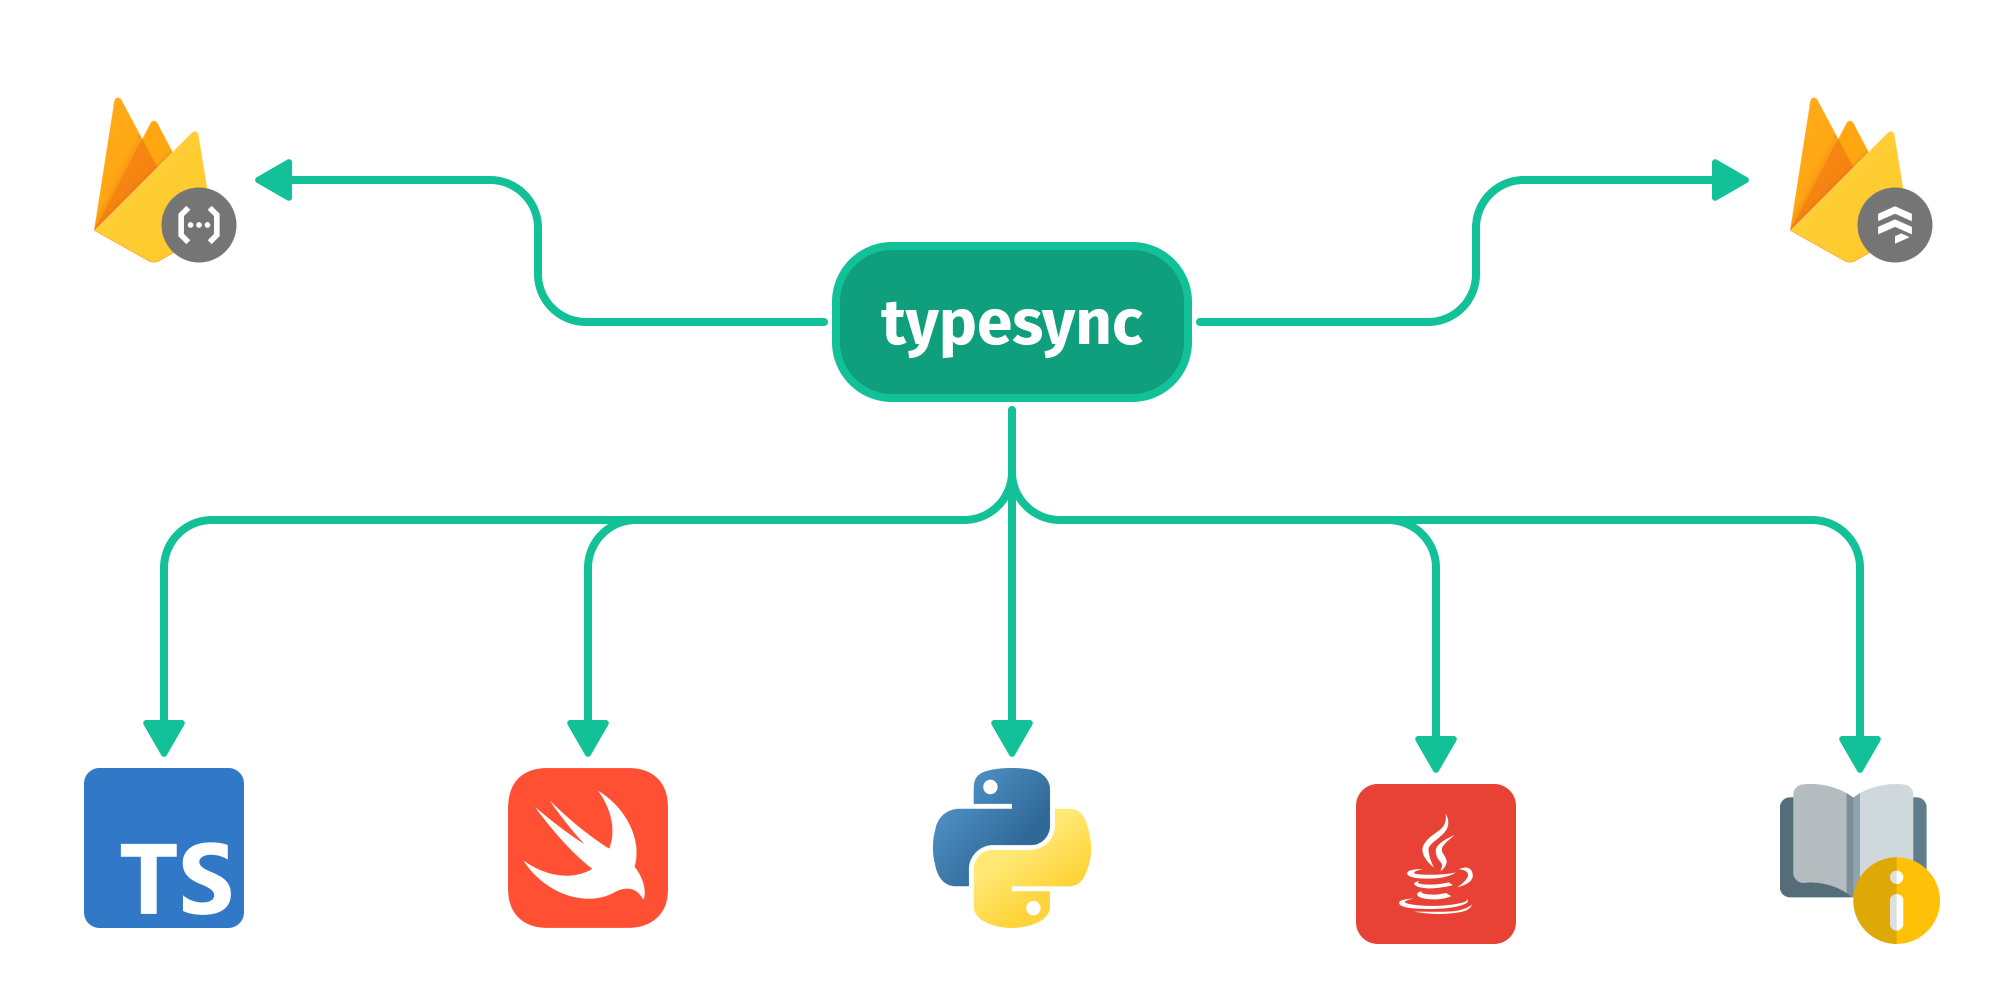
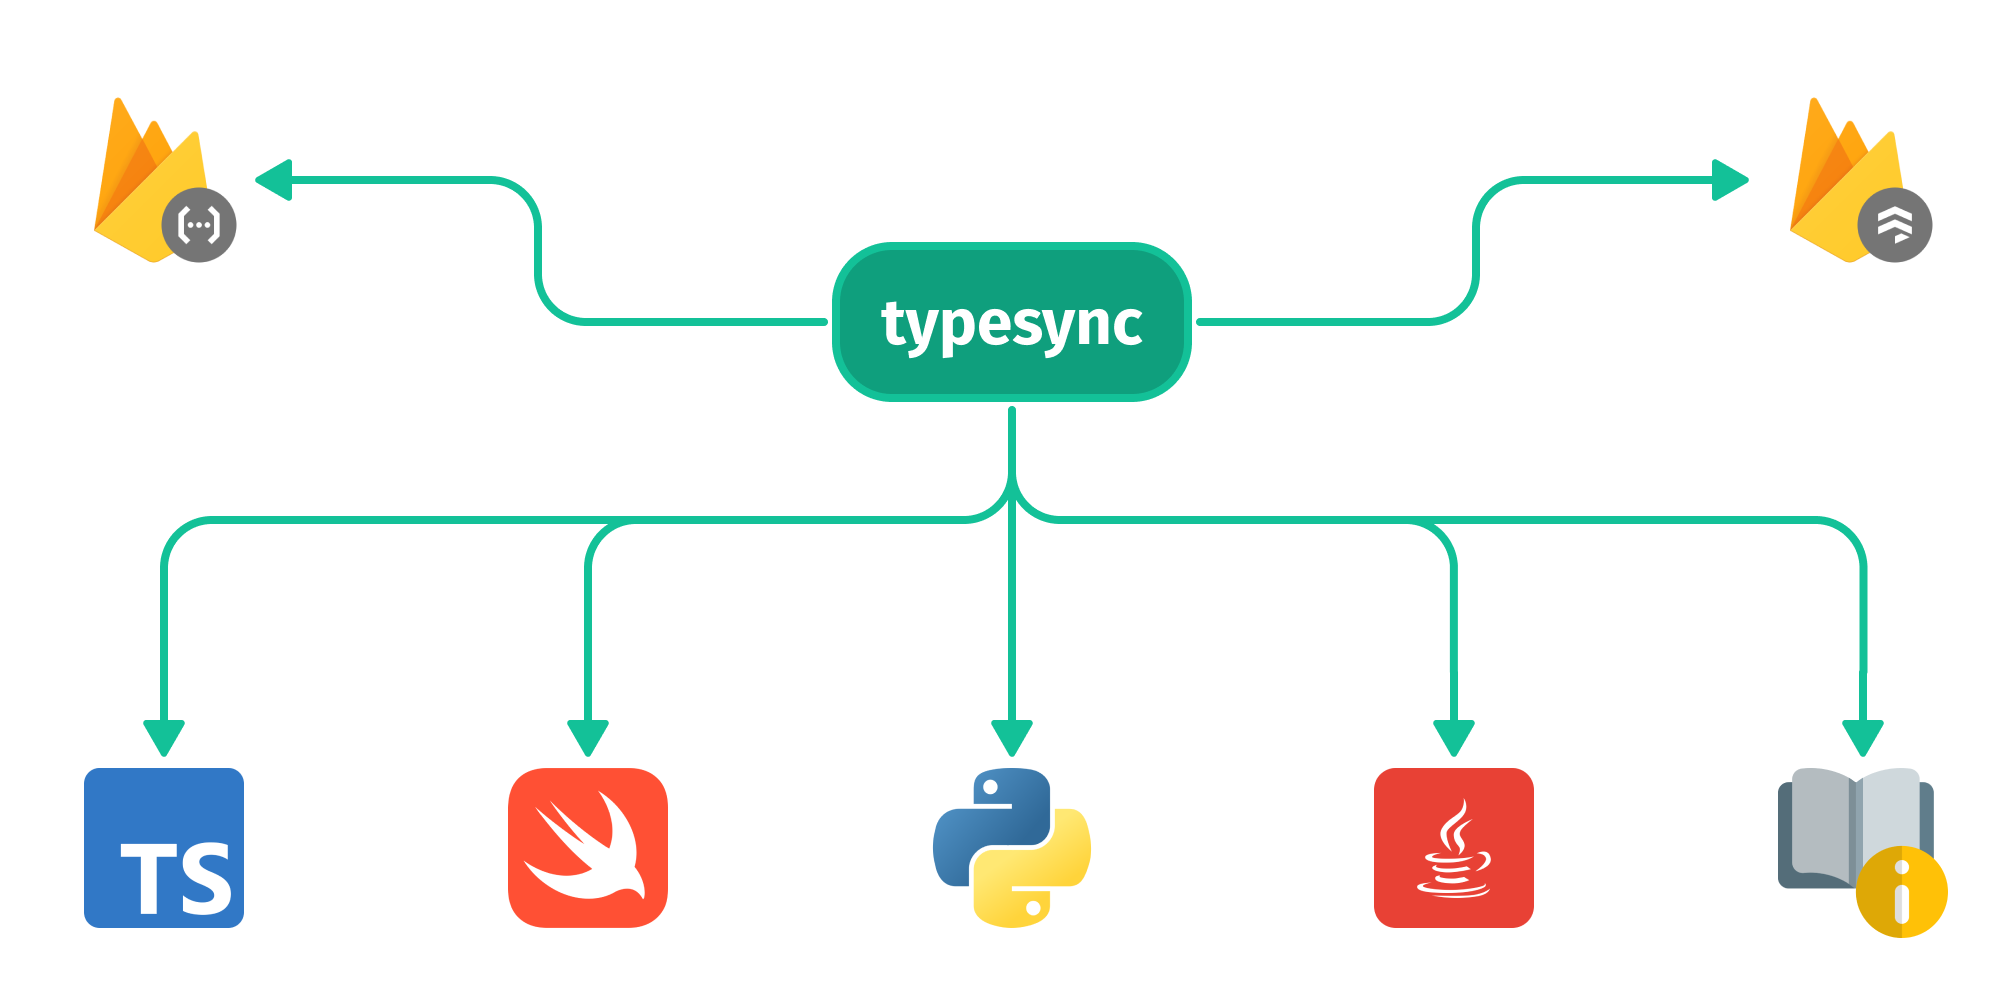
docs: update introduction and image (#138)
* Remove license

* Add license

* Update docs

* Add changeset

* Fix name

* Change cspell word

Changed region(s): [[0.651, 0.527, 0.775, 0.961], [0.868, 0.713, 0.992, 0.961], [0.899, 0.527, 0.93, 0.558]]

diff --git a/README.md b/README.md
@@ -25,7 +25,9 @@
       <img src="https://img.shields.io/badge/License-AGPL%20v3-blue.svg" alt="Typesync CLI is released under the AGPL-3.0-only license." /></a>
 </p>
 
-Typesync is an open-source schema management tool for [Firestore](https://cloud.google.com/firestore). It allows you to maintain a single source of truth for your Firestore architecture. With this schema in place, you can effortlessly auto-generate type definitions for multiple platforms like TypeScript, Python, Swift and more using the CLI tool. Typesync also lets you generate other useful things like Security Rules, Cloud Functions boilerplate and documentation for your models.
+Typesync is an open-source schema management tool that simplifies managing [Firestore](https://cloud.google.com/firestore) databases. Typesync allows you to maintain a single source of truth for your Firestore architecture in a special _schema_. With this schema in place, you can seamlessly auto-generate type definitions for multiple platforms like TypeScript, Python, Swift, and more using the CLI tool.
+
+Typesync keeps your database and application code consistent and up-to-date at all times. In addition to type definitions, it lets you generate other useful things like Security Rules, boilerplate code for Cloud Functions, and documentation for your data models.
 
 [**View the full documentation (docs) ▸**](https://docs.typesync.org)
 
@@ -148,7 +150,7 @@ Decide if you want to version control the generated files. It can be beneficial 
 
 #### Multiple Files
 
-If your project grows, you might want to split your schema into multiple YAML/JSON files. TypeSync will automatically handle all files matching the pattern that you provide to it through the `--definition` option.
+If your project grows, you might want to split your schema into multiple YAML/JSON files. Typesync will automatically handle all files matching the pattern that you provide to it through the `--definition` option.
 
 # License
 

diff --git a/.changeset/odd-fishes-notice.md b/.changeset/odd-fishes-notice.md
@@ -1,0 +1,5 @@
+---
+"typesync-cli": minor
+---
+
+Changed the default `indentation` to 2.
